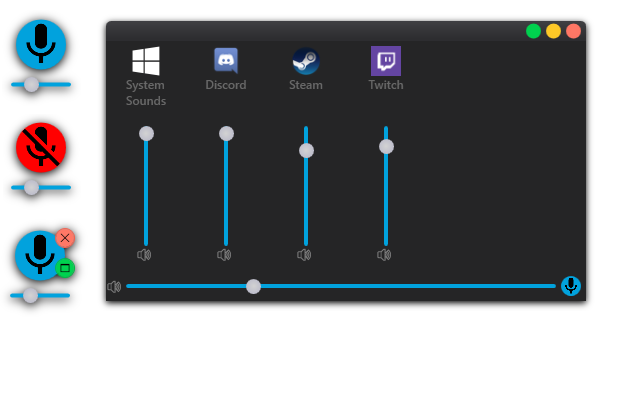
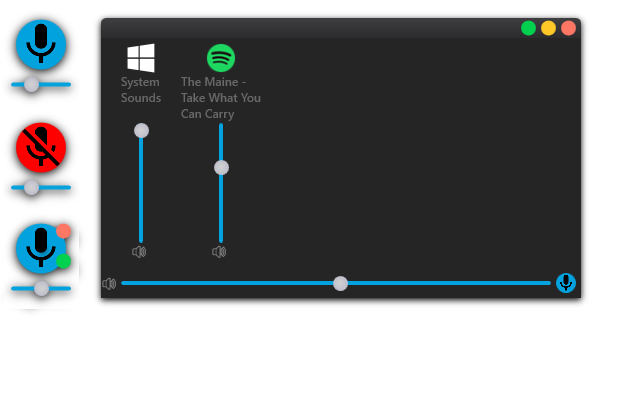
Updated to only show active sound processes

diff --git a/SoundMixer/MainWindow.xaml b/SoundMixer/MainWindow.xaml
@@ -43,53 +43,65 @@
 					</StackPanel.Style>
 				</StackPanel>
 			</Border>
-			<Button Name="CloseButton" Panel.ZIndex="5" Height="20" Width="20" Margin="-10,-30,0,0" Click="CloseButton_Click" >
+			<Button Name="CloseButton" Panel.ZIndex="5" Height="15" Width="15" Margin="-10,-30,0,0" Click="CloseButton_Click" >
 				<Button.Template>
 					<ControlTemplate>
-						<Border CornerRadius="10" Name="CloseButtonBorder">
-							<Border.Style>
-								<Style TargetType="{x:Type Border}">
-									<Setter Property="Background" Value="#FF7866"/>
+						<Ellipse Name="Ellipse">
+							<Ellipse.Style>
+								<Style TargetType="{x:Type Ellipse}">
 									<Setter Property="Visibility" Value="Hidden"/>
-									<Setter Property="BorderBrush" Value="#F0614F"/>
-									<Setter Property="BorderThickness" Value="1"/>
+									<Setter Property="Ellipse.Fill">
+										<Setter.Value>
+											<RadialGradientBrush >
+												<RadialGradientBrush.GradientStops>
+													<GradientStop Color="#FF7866" Offset="0" />
+													<GradientStop Color="#F0614F" Offset="10" />
+												</RadialGradientBrush.GradientStops>
+											</RadialGradientBrush>
+										</Setter.Value>
+									</Setter>
 									<Style.Triggers>
 										<DataTrigger Binding="{Binding IsMouseOver, ElementName=MainStackPanel}" Value="True">
 											<Setter Property="Visibility" Value="Visible"/>
 										</DataTrigger>
 										<DataTrigger Binding="{Binding IsMouseOver, ElementName=CloseButton}" Value="True">
-											<Setter  Property="Border.Background" Value="#F0614F"/>
+											<Setter  Property="Ellipse.Fill" Value="#F0614F"/>
 										</DataTrigger>
 									</Style.Triggers>
 								</Style>
-							</Border.Style>
-							<TextBlock Foreground="Black" HorizontalAlignment="Center" VerticalAlignment="Center" Margin="0,-1,0,0">✕</TextBlock>
-						</Border>
+							</Ellipse.Style>
+						</Ellipse>
 					</ControlTemplate>
 				</Button.Template>
 			</Button>
-			<Button Name="ExpandButton" Panel.ZIndex="5" Height="20" Width="20" Margin="-20,30,0,0" Click="ExpandButton_Click">
+			<Button Name="ExpandButton" Panel.ZIndex="5" Height="15" Width="15" Margin="-15,30,0,0" Click="ExpandButton_Click">
 				<Button.Template>
 					<ControlTemplate>
-						<Border CornerRadius="10" Name="ExpandButtonBorder">
-							<Border.Style>
-								<Style TargetType="{x:Type Border}">
-									<Setter Property="Background" Value="#00D24F"/>
+						<Ellipse Name="Ellipse">
+							<Ellipse.Style>
+								<Style TargetType="{x:Type Ellipse}">
 									<Setter Property="Visibility" Value="Hidden"/>
-									<Setter Property="BorderBrush" Value="#00BB44"/>
-									<Setter Property="BorderThickness" Value="1"/>
+									<Setter Property="Ellipse.Fill">
+										<Setter.Value>
+											<RadialGradientBrush >
+												<RadialGradientBrush.GradientStops>
+													<GradientStop Color="#00D24F" Offset="0" />
+													<GradientStop Color="#00BB44" Offset="10" />
+												</RadialGradientBrush.GradientStops>
+											</RadialGradientBrush>
+										</Setter.Value>
+									</Setter>
 									<Style.Triggers>
 										<DataTrigger Binding="{Binding IsMouseOver, ElementName=MainStackPanel}" Value="True">
 											<Setter Property="Visibility" Value="Visible"/>
 										</DataTrigger>
 										<DataTrigger Binding="{Binding IsMouseOver, ElementName=ExpandButton}" Value="True">
-											<Setter  Property="Border.Background" Value="#00BB44"/>
+											<Setter  Property="Ellipse.Fill" Value="#00BB44"/>
 										</DataTrigger>
 									</Style.Triggers>
 								</Style>
-							</Border.Style>
-							<TextBlock Foreground="Black" HorizontalAlignment="Center" VerticalAlignment="Center" Margin="0,-3,0,0">🗖</TextBlock>
-						</Border>
+							</Ellipse.Style>
+						</Ellipse>
 					</ControlTemplate>
 				</Button.Template>
 			</Button>

diff --git a/SoundMixer/Mixer.cs b/SoundMixer/Mixer.cs
@@ -15,7 +15,9 @@ namespace SoundMixer
 				ObservableCollection<AudioApp> list = new ObservableCollection<AudioApp>();
 				for (int i = 0; i < _outputDevice.AudioSessionManager.Sessions.Count; i++)
 				{
-					list.Add(new AudioApp(_outputDevice.AudioSessionManager.Sessions[i]));
+					var session = _outputDevice.AudioSessionManager.Sessions[i];
+					if(session.State == AudioSessionState.AudioSessionStateActive || session.IsSystemIsSystemSoundsSession)
+						list.Add(new AudioApp(session));
 				}
 				return list;
 			}
